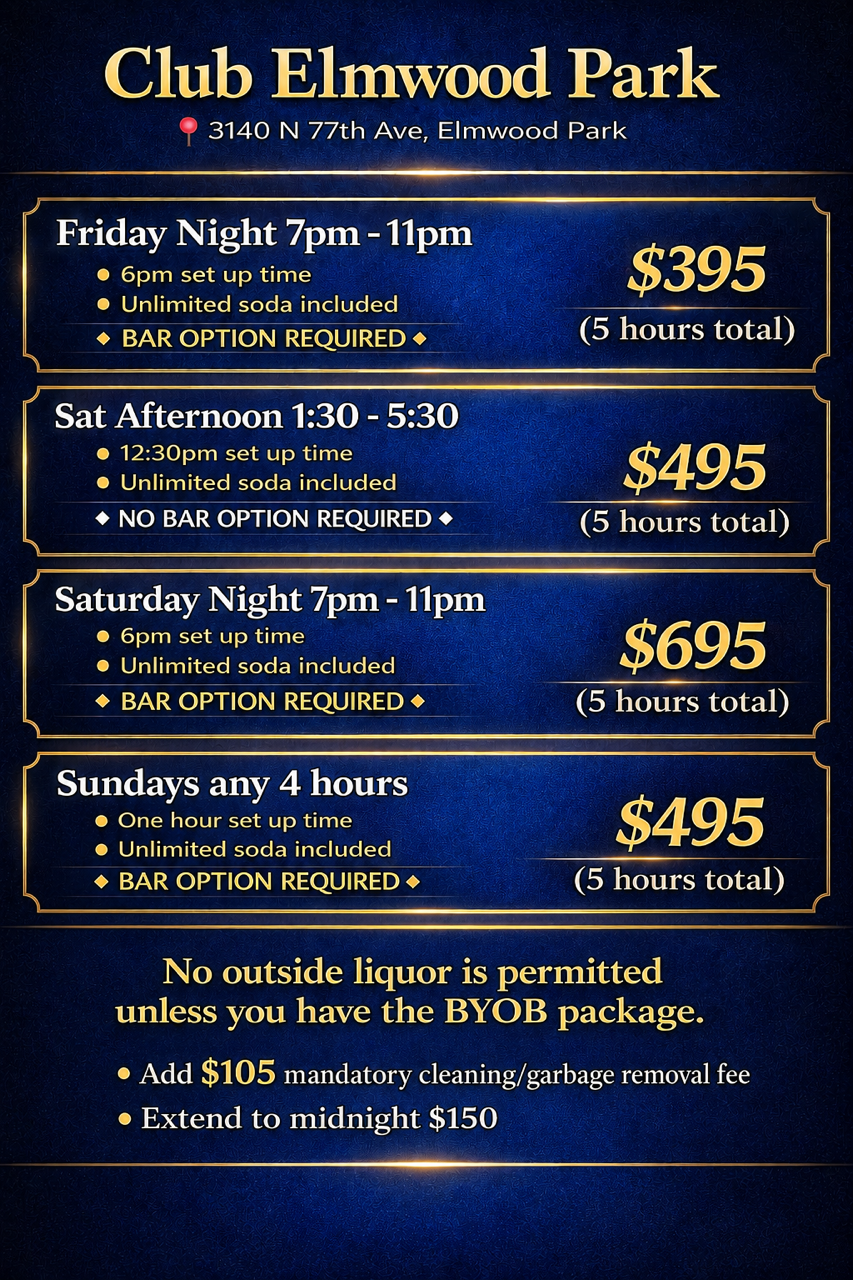
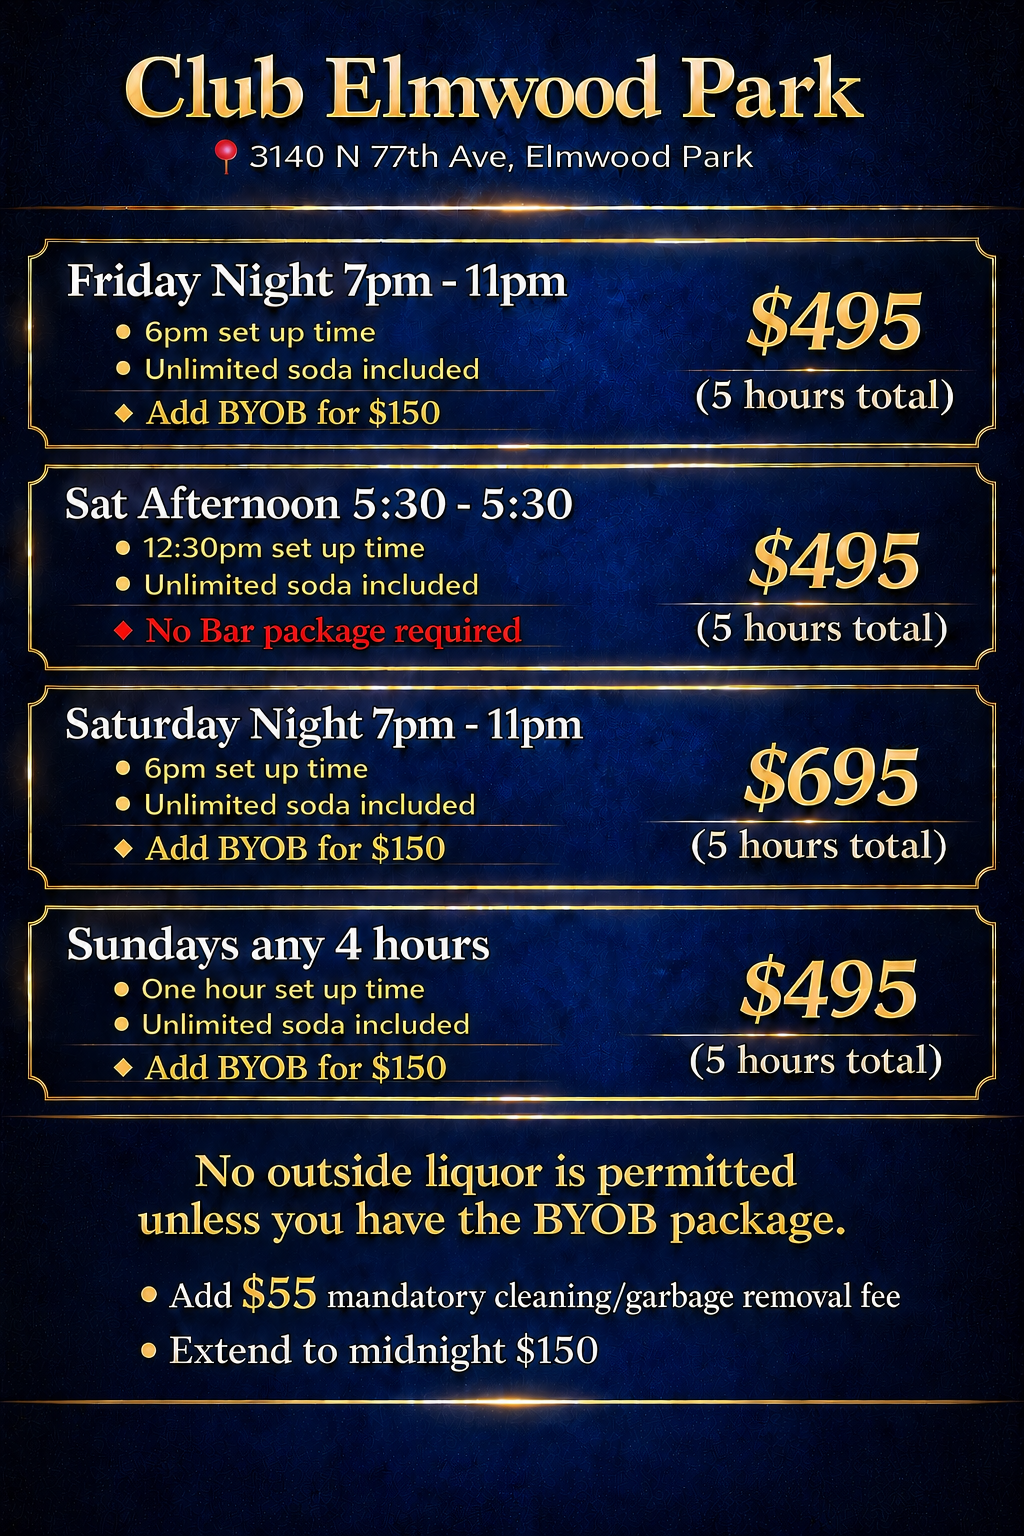
remove flyers

diff --git a/src/data/venues.js b/src/data/venues.js
@@ -86,7 +86,7 @@ map: 'https://www.google.com/maps?q=2366+N+Neva+Ave+Chicago+IL+60707&output=embe
     style: 'Classic Banquet Hall',
     address: '3140 N 77th Ave, Elmwood Park, IL 60707',
 map: 'https://www.google.com/maps?q=3140+N+77th+Ave+Elmwood+Park+IL+60707&output=embed',
-    gallery: ['/images/venues/club-elmwood/club-elmwood01.png', '/images/venues/club-elmwood/club-elmwood02.png', '/images/venues/club-elmwood/club-elmwood03.png', '/images/venues/club-elmwood/club-elmwood04.png', '/images/venues/club-elmwood/club-elmwood05.png', '/images/venues/club-elmwood/club-elmwood06.png'],
+    gallery: ['/images/venues/club-elmwood/club-elmwood01.png', '/images/venues/club-elmwood/club-elmwood03.png', '/images/venues/club-elmwood/club-elmwood04.png', '/images/venues/club-elmwood/club-elmwood05.png', '/images/venues/club-elmwood/club-elmwood06.png'],
     flyers: [
       {
         title: '',
